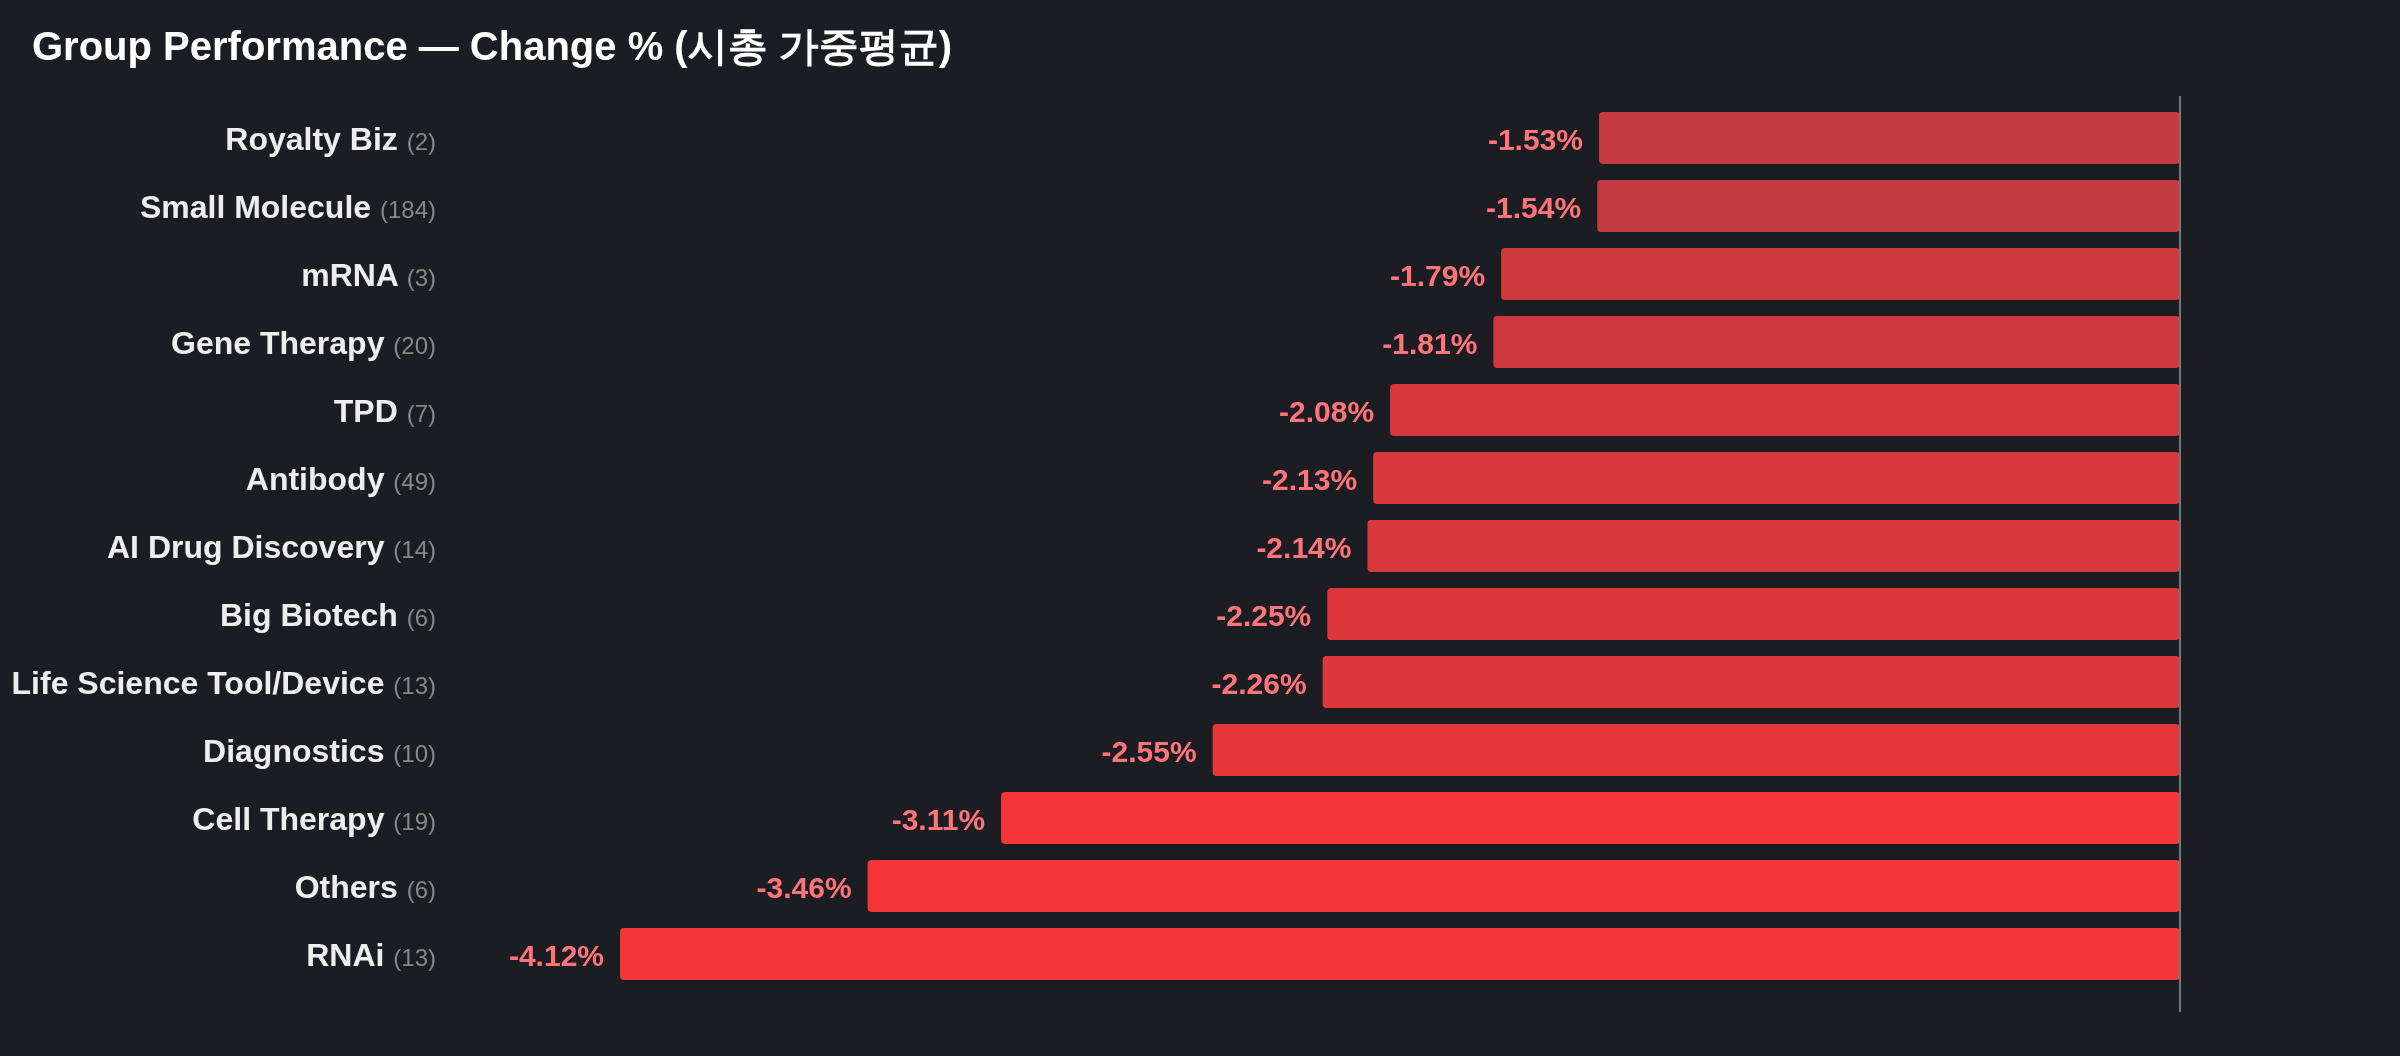
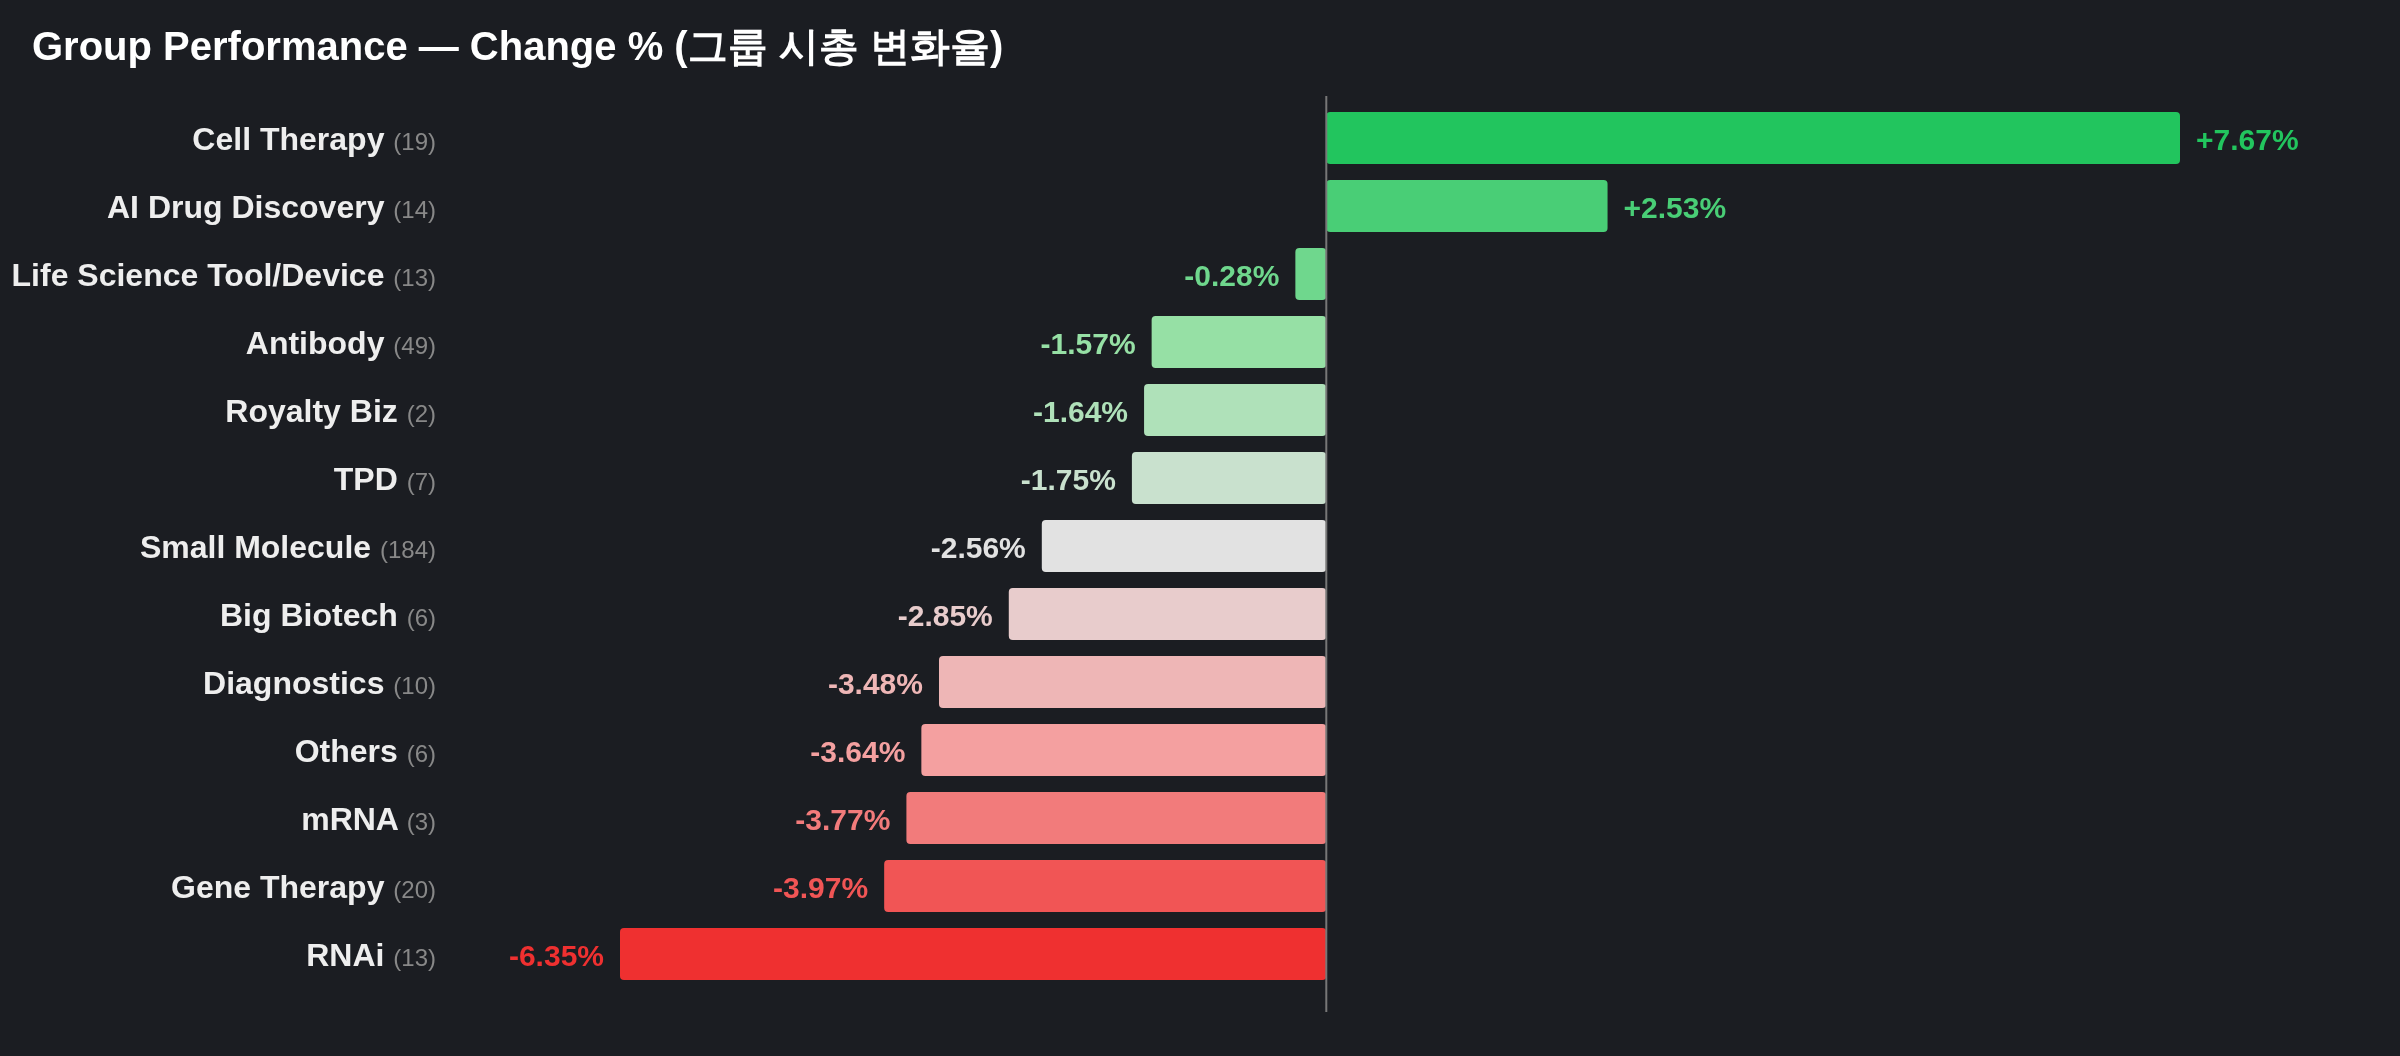
Group market-cap change % mode, rank-based green-to-red gradient, regenerate PNG
Claude-Session: https://claude.ai/code/session_01Ge4cFDMvqSvWRBDUNnXTCC

diff --git a/performance.html b/performance.html
@@ -30,12 +30,19 @@
   <label class="btn">Excel 파일 열기<input id="file" type="file" accept=".xlsx,.xls,.csv"></label>
   <label class="opt">시트 <select id="sheet"></select></label>
   <label class="opt">그룹 열 <select id="gcol"></select></label>
+  <label class="opt">현재 시총 <select id="ncol"></select></label>
+  <label class="opt">이전 시총 <select id="pcol"></select></label>
   <label class="opt">계산 <select id="mode">
+    <option value="capchg">그룹 시총 변화율 (현재 시총 합 ÷ 이전 시총 합 − 1)</option>
     <option value="cap">시총 가중평균 (Finviz 방식)</option>
     <option value="avg">단순평균</option>
     <option value="med">중앙값</option>
   </select></label>
-  <label class="opt">색상 기준 ±<input id="scale" type="number" value="3" min="0.5" step="0.5" style="width:50px"/>%</label>
+  <label class="opt">색상 <select id="cmode">
+    <option value="rank">순위 (맨 위 진초록 → 맨 아래 진빨강)</option>
+    <option value="val">값 (±기준 %)</option>
+  </select></label>
+  <label class="opt" id="scalebox" style="display:none">기준 ±<input id="scale" type="number" value="3" min="0.5" step="0.5" style="width:50px"/>%</label>
   <button class="sec" id="png">PNG로 저장</button>
   <span id="msg">Excel 파일을 여기에 끌어다 놓아도 됩니다.</span>
 </header>
@@ -87,27 +94,32 @@ function findCol(head, re) { return head.findIndex(h => re.test(h)); }
 
 /* ---------- 그룹 성과 계산 ---------- */
 function compute() {
-  const head = table.head;
-  const gi = +$('gcol').value;
-  const ti = findCol(head, /^ticker$/i), ci = findCol(head, /market\s*cap/i), pi = findCol(head, /change/i);
-  if (pi < 0 || ci < 0) { msg.textContent = '"Market Cap" 또는 "Change %" 열을 찾지 못했습니다.'; return null; }
+  const head = table.head, mode = $('mode').value;
+  const gi = +$('gcol').value, ni = +$('ncol').value, oi = +$('pcol').value;
+  const ti = findCol(head, /^ticker$/i), pi = findCol(head, /change/i);
+  if (mode === 'capchg' ? oi < 0 || ni < 0 : (pi < 0 || ni < 0)) {
+    msg.textContent = mode === 'capchg' ? '"현재 시총"과 "이전 시총" 열을 선택해 주세요.' : '"Market Cap" 또는 "Change %" 열을 찾지 못했습니다.';
+    return null;
+  }
   const map = new Map(), seen = new Set();
   let dup = 0, skip = 0;
   for (const r of table.rows) {
     const g = r[gi] == null ? '' : String(r[gi]).trim();
-    const cap = num(r[ci]), chg = num(r[pi]);
+    const cap = num(r[ni]);
+    const prev = mode === 'capchg' ? num(r[oi]) : NaN;
+    const chg = mode === 'capchg' ? (cap / prev - 1) * 100 : num(r[pi]);
     const t = ti >= 0 && r[ti] != null ? String(r[ti]).trim() : '';
-    if (!g || !(cap > 0) || isNaN(chg)) { skip++; continue; }
+    if (!g || !(cap > 0) || isNaN(chg) || (mode === 'capchg' && !(prev > 0))) { skip++; continue; }
     const key = g + '|' + t;
     if (t && seen.has(key)) { dup++; continue; }
     seen.add(key);
     if (!map.has(g)) map.set(g, []);
-    map.get(g).push({ t, cap, chg });
+    map.get(g).push({ t, cap, prev, chg });
   }
-  const mode = $('mode').value;
   const out = [...map].map(([name, list]) => {
     let val;
-    if (mode === 'cap') { const tot = list.reduce((s, i) => s + i.cap, 0); val = list.reduce((s, i) => s + i.cap * i.chg, 0) / tot; }
+    if (mode === 'capchg') val = (list.reduce((s, i) => s + i.cap, 0) / list.reduce((s, i) => s + i.prev, 0) - 1) * 100;
+    else if (mode === 'cap') { const tot = list.reduce((s, i) => s + i.cap, 0); val = list.reduce((s, i) => s + i.cap * i.chg, 0) / tot; }
     else if (mode === 'avg') val = list.reduce((s, i) => s + i.chg, 0) / list.length;
     else { const s = list.map(i => i.chg).sort((a, b) => a - b), m = s.length >> 1; val = s.length % 2 ? s[m] : (s[m - 1] + s[m]) / 2; }
     const sorted = [...list].sort((a, b) => b.chg - a.chg);
@@ -118,11 +130,20 @@ function compute() {
 }
 
 /* ---------- 그리기 ---------- */
-function color(v) {
+const STOPS = [[0, [34, 197, 94]], [0.25, [150, 224, 165]], [0.5, [226, 226, 226]], [0.75, [244, 160, 160]], [1, [239, 48, 48]]];
+function rankColor(t) {            // t: 0(맨 위, 진초록) → 1(맨 아래, 진빨강)
+  for (let i = 1; i < STOPS.length; i++) {
+    if (t <= STOPS[i][0]) {
+      const [t0, c0] = STOPS[i - 1], [t1, c1] = STOPS[i], f = (t - t0) / (t1 - t0);
+      return `rgb(${c0.map((c, k) => Math.round(c + (c1[k] - c) * f))})`;
+    }
+  }
+  return `rgb(${STOPS[STOPS.length - 1][1]})`;
+}
+function color(v, i, n) {
+  if ($('cmode').value === 'rank') return rankColor(n > 1 ? i / (n - 1) : 0);
   const sc = parseFloat($('scale').value) || 3;
-  const t = Math.min(Math.abs(v) / sc, 1);
-  const gray = [65, 69, 84], tgt = v >= 0 ? [48, 204, 90] : [246, 53, 56];
-  return `rgb(${gray.map((g, i) => Math.round(g + (tgt[i] - g) * (0.45 + 0.55 * t)))})`;
+  return rankColor(0.5 - Math.max(-1, Math.min(1, v / sc)) / 2);
 }
 const esc = s => String(s).replace(/[&<>"]/g, c => ({ '&':'&amp;', '<':'&lt;', '>':'&gt;', '"':'&quot;' }[c]));
 const pct = v => `${v >= 0 ? '+' : ''}${v.toFixed(2)}%`;
@@ -158,7 +179,7 @@ function render() {
   const x0 = PL + plotW * (maxN / span);
   const k = plotW / span;
 
-  const modeName = { cap: '시총 가중평균', avg: '단순평균', med: '중앙값' }[$('mode').value];
+  const modeName = { capchg: '그룹 시총 변화율', cap: '시총 가중평균', avg: '단순평균', med: '중앙값' }[$('mode').value];
   let out = `<rect width="${W}" height="${H}" fill="#1b1d22"/>`;
   out += `<text x="16" y="30" font-size="20" font-weight="bold" fill="#fff">Group Performance — Change % (${modeName})</text>`;
   shown.forEach((g, i) => {
@@ -168,9 +189,9 @@ function render() {
     out += `<g><title>${esc(tip)}</title>`;
     out += `<rect x="${LEFT - 220}" y="${y - 2}" width="${W - LEFT + 220}" height="${ROW - 4}" fill="transparent"/>`;
     out += `<text x="${LEFT - 12}" y="${y + bh / 2 + 6}" text-anchor="end" font-size="16" font-weight="bold" fill="#eee">${esc(g.name)} <tspan font-size="12" fill="#888" font-weight="normal">(${g.n})</tspan></text>`;
-    out += `<rect x="${x}" y="${y}" width="${Math.max(w, 1)}" height="${bh}" fill="${color(g.val)}" rx="2"/>`;
+    out += `<rect x="${x}" y="${y}" width="${Math.max(w, 1)}" height="${bh}" fill="${color(g.val, i, shown.length)}" rx="2"/>`;
     const lx = g.val >= 0 ? x0 + w + 8 : x0 - w - 8;
-    out += `<text x="${lx}" y="${y + bh / 2 + 6}" text-anchor="${g.val >= 0 ? 'start' : 'end'}" font-size="15" font-weight="bold" fill="${g.val >= 0 ? '#5fe07f' : '#ff7478'}">${pct(g.val)}</text></g>`;
+    out += `<text x="${lx}" y="${y + bh / 2 + 6}" text-anchor="${g.val >= 0 ? 'start' : 'end'}" font-size="15" font-weight="bold" fill="${color(g.val, i, shown.length)}">${pct(g.val)}</text></g>`;
   });
   out += `<line x1="${x0}" y1="${TOP - 8}" x2="${x0}" y2="${H - 22}" stroke="#777" stroke-width="1"/>`;
   svg.innerHTML = out;
@@ -178,12 +199,24 @@ function render() {
 }
 
 /* ---------- 입력 처리 ---------- */
+function fillSelect(id, withNone) {
+  const sel = $(id); sel.innerHTML = '';
+  if (withNone) { const o = document.createElement('option'); o.value = -1; o.textContent = '(없음)'; sel.appendChild(o); }
+  table.head.forEach((h, i) => { const o = document.createElement('option'); o.value = i; o.textContent = `${colLetter(i)}열 · ${h || '(빈 제목)'}`; sel.appendChild(o); });
+  return sel;
+}
 function setSheet(name) {
   table = readSheet(name);
-  const sel = $('gcol'); sel.innerHTML = '';
-  table.head.forEach((h, i) => { const o = document.createElement('option'); o.value = i; o.textContent = `${colLetter(i)}열 · ${h || '(빈 제목)'}`; sel.appendChild(o); });
-  // 기본값: H열 (없으면 마지막 열)
-  sel.value = Math.min(7, table.head.length - 1);
+  const head = table.head;
+  const g = fillSelect('gcol'), n = fillSelect('ncol', true), p = fillSelect('pcol', true);
+  // 그룹 열: 'Industry Class III' 제목 → 없으면 H열(마지막 열 이내)
+  const gi = findCol(head, /industry\s*class\s*iii/i);
+  g.value = gi >= 0 ? gi : Math.min(7, head.length - 1);
+  // 시총 열: 'Market Cap' 제목이 2개 이상이면 앞=현재, 뒤=이전 → 시총 변화율 기본
+  const caps = head.map((h, i) => /market\s*cap/i.test(h) ? i : -1).filter(i => i >= 0);
+  n.value = caps.length ? caps[0] : -1;
+  p.value = caps.length > 1 ? caps[1] : -1;
+  $('mode').value = caps.length > 1 ? 'capchg' : 'cap';
   hidden.clear();
   render();
 }
@@ -199,7 +232,9 @@ $('file').addEventListener('change', e => e.target.files[0] && loadFile(e.target
 $('sheet').onchange = e => setSheet(e.target.value);
 $('gcol').onchange = () => { hidden.clear(); render(); };
 $('mode').onchange = render;
+$('ncol').onchange = $('pcol').onchange = () => { hidden.clear(); render(); };
 $('scale').oninput = render;
+$('cmode').onchange = () => { $('scalebox').style.display = $('cmode').value === 'val' ? '' : 'none'; render(); };
 const drop = $('drop');
 drop.addEventListener('dragover', e => { e.preventDefault(); drop.classList.add('over'); });
 drop.addEventListener('dragleave', () => drop.classList.remove('over'));
